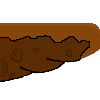
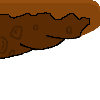
Improved jumping function, added jumping assets, added/modified map assets

diff --git a/Scripts/player/player.js b/Scripts/player/player.js
@@ -3,16 +3,18 @@ var leftPressed = false;
 var rightPressed = false;
 var jumpPressed = false;
 var onGround = true;
-var jumpVal = 250;
+var jumpVal = 0;
+var jumpPeak = false;
     
 var isPressed=false;
 var end=false;
 	
-var images = [new Image(), new Image(), new Image(), new Image()];
-images[0].src = "./Assets/idle-l.png";
-images[1].src = "./Assets/idle-r.png";
-images[2].src = "./Assets/run-l.png";
-images[3].src = "./Assets/run-r.png";
+var images = [new Image(), new Image(), new Image(), new Image(), new Image()];
+images[0].src = "./Assets/MainCharacterIdle.png";
+images[1].src = "./Assets/run-l.png";
+images[2].src = "./Assets/run-r.png";
+images[3].src = "./Assets/mainCharacterJump.png";
+images[4].src = "./Assets/mainCharacterJumpLeft.png";
 
 var player = {img:null, x:300, y:600, dir:1, idle:true, width:100, height:100};
 	
@@ -29,7 +31,10 @@ var n=0;
 
 function update3()
 {
-	animate();
+	if(onGround && !jumpPressed)
+	{
+		animate();
+	}
 }
 
 function scrollMap()
@@ -40,7 +45,7 @@ function scrollMap()
 		{
 			for (var col = 0; col < map[0].length; col++)
 			{
-				map[row][col].x -= 5;
+				map[row][col].x -= 8;
 				//console.log ("map x " + map[1][5].x);
 				if (map[map.length - 1][map[0].length - 1].x == 1300)
 				{
@@ -73,8 +78,20 @@ function onKeyDown(event)
 			}
 			break;
 		case 32:
-			if (jumpPressed == false)
+			if (jumpPressed == false && onGround)                      
 			{
+				player.idle = false;
+
+				if(player.dir === 1)
+				{
+					player.img = images[4];
+				}
+				else if(player.dir === -1)
+				{
+					player.img = images[3];
+				}
+				
+				onGround = false;
 				jumpPressed = true;
 				jump();
 			}
@@ -84,11 +101,17 @@ function onKeyDown(event)
 
 function jump()
 {
-	//if ((player.y == 600) || (player.y == 500))// change
-	{
-		player.y -= jumpVal;
-		onGround = false;
-	}
+	if(jumpVal === 200)
+		{	
+
+			jumpPeak = true;		
+			return;
+		}
+	    animate();
+		player.y -= 12;
+		jumpVal += 10;
+		
+		setTimeout(jump, 15);
 }
 
 function collision()
@@ -124,7 +147,9 @@ function collision()
 					if (player.y + SIZE >= map[r][c].y && player.y + SIZE <= map[r][c].y)
 					{
 						console.log("on ground true");
+						jumpPeak = false;				
 						onGround = true;
+						jumpVal = 0;
 					}
 				}
 			}
@@ -136,6 +161,7 @@ function collision()
 					if (player.y + SIZE >= map[r][c].y)
 					{
 						console.log("on ground false");
+						jumpPeak = true;
 						onGround = false;
 					}
 				}
@@ -146,8 +172,9 @@ function collision()
 
 function back()
 {
-	if (!onGround)
+	if (!onGround && jumpPeak )
 	{
+		frameIndex = 2;
 		player.y += 10;
 	}
 }
@@ -171,42 +198,57 @@ function onKeyUp(event)
 
 function handleInput()
 {
-	if (leftPressed == true)
+	if (leftPressed == true && onGround && !rightPressed)
 	{
-		player.img = images[2];
-		player.dir = 1;
-		player.idle = false;
-		if (player.x > 0)
-		{
-			player.x -= 5;
-		}
+			player.idle = false;
+			player.img = images[1];
+			player.dir = 1;		
+			if (player.x > 0)
+			{
+				player.x -= 8;
+			}
 	}
-	else if (rightPressed == true)
+   if (rightPressed == true && onGround && !leftPressed)
 	{
-		player.img = images[3];
-		player.dir = -1;
-		player.idle = false;
-		if (player.x < 300 || (end == true && player.x < 1300))
-			{ player.x += 5; }
+			player.idle = false;
+			player.img = images[2];
+			player.dir = -1;
+			
+		   	if (player.x < 300 || (end == true && player.x < 1300))
+				{ player.x += 8; }
 	}
-	else
+  if (onGround && !rightPressed && !leftPressed || rightPressed && leftPressed && onGround )
 		{
 			player.idle = true;
-			if (player.dir == 1)
-				player.img = images[0];
-			else
-				player.img = images[1];
+			player.img = images[0];
 		}
+
+ if(rightPressed && !onGround)
+ {
+	if (player.x < 300 || (end == true && player.x < 1300))
+	{ player.x += 8; }
+	 
+ }
+
+ if(leftPressed && !onGround)
+ {
+	 if (player.x > 0)
+	 {
+		player.x -= 8;
+	 }
+	 
+ }
+
 }
 
 function animate()
 {
-	currentFrame++;
-	if (currentFrame == maxFrames)
+	if (currentFrame === maxFrames)
 	{
 		frameIndex++;
 		currentFrame = 0;
 		if (frameIndex == 4)
 			frameIndex = 0;
 	}
+	currentFrame++;
 }

diff --git a/Scripts/enemies/fire/fire-walker.js b/Scripts/enemies/fire/fire-walker.js
@@ -43,28 +43,28 @@ var fireWalker = {
         console.log("Player x: " + player.x + " Firewalker x: " + this.x + " Total Scroll: " + this.scrollCount + " Spawnpoint: " + this.spawnPoint);
         if (rightPressed == true) {
             if (player.x >= 300 || (end == true && player.x > 1300)) {
-                this.scrollCount += 5;
+                this.scrollCount += 8;
                 if (this.dir == 0) {
                     this.x += 0;
-                    this.spawnPoint -= 5;
+                    this.spawnPoint -= 8;
                     if (this.x >= this.spawnPoint + 300)
                         this.dir = 1;
                 }
                 else {
                     this.x -= 10;
-                    this.spawnPoint -= 5;
+                    this.spawnPoint -= 9;
                     if (this.x < this.spawnPoint)
                         this.dir = 0
                 }
             }
             else {
                 if (this.dir == 0) {
-                    this.x += 5;
-                    if (this.x >= this.spawnPoint + 300)
+                    this.x += 8;
+                    if (this.x >= this.spawnPoint + 295)
                         this.dir = 1;
                 }
                 else {
-                    this.x -= 5;
+                    this.x -= 8;
                     if (this.x < this.spawnPoint)
                         this.dir = 0
                 }
@@ -72,12 +72,12 @@ var fireWalker = {
         }
         else if (rightPressed == false){
             if (this.dir == 0) {
-                this.x += 5;
+                this.x += 8;
                 if (this.x >= this.spawnPoint + 300)
                     this.dir = 1;
             }
             else {
-                this.x -= 5;
+                this.x -= 8;
                 if (this.x < this.spawnPoint)
                     this.dir = 0
             }

diff --git a/Scripts/draw/draw.js b/Scripts/draw/draw.js
@@ -37,15 +37,10 @@ function render()
 		}
 	}
 
-	if (player.idle == true)
-	{
-		surface.drawImage(player.img, player.x, player.y);
-	}
-
-	else
-        surface.drawImage(player.img,
+	surface.drawImage(player.img,
             frameIndex * 100, 0, 100, 100,		// Source rectangle.
             player.x, player.y, 100, 100);	// Dest rectangle.
+			
         //console.log("FireWalker Image: " + fireWalker.img);
         surface.drawImage(fireWalker.img,
             fireWalker.sourceX, fireWalker.sourceY, fireWalker.size, fireWalker.size,

diff --git a/index.html b/index.html
@@ -8,7 +8,7 @@
 </head>
 
 <body>
-<!--<audio autoplay loop src="./Assets/Heroic Fantasy - Onslaught(fire).mp3"></audio>-->
+<audio autoplay loop src="./Assets/Heroic Fantasy - Onslaught(fire).mp3"></audio>
     <div id="stage">
         <canvas id="myCanvas"></canvas>
     </div>
